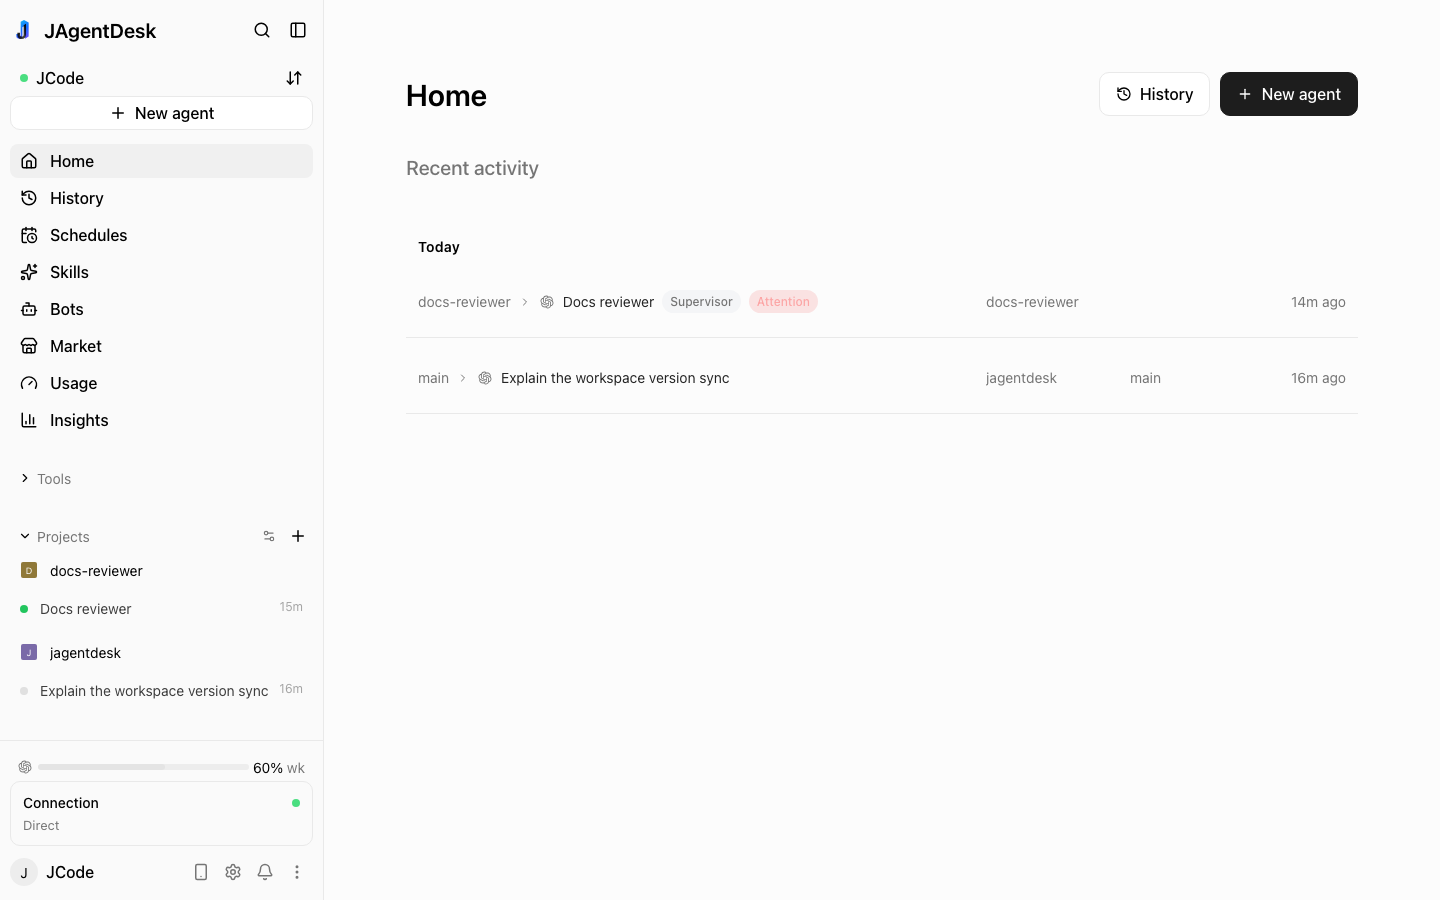
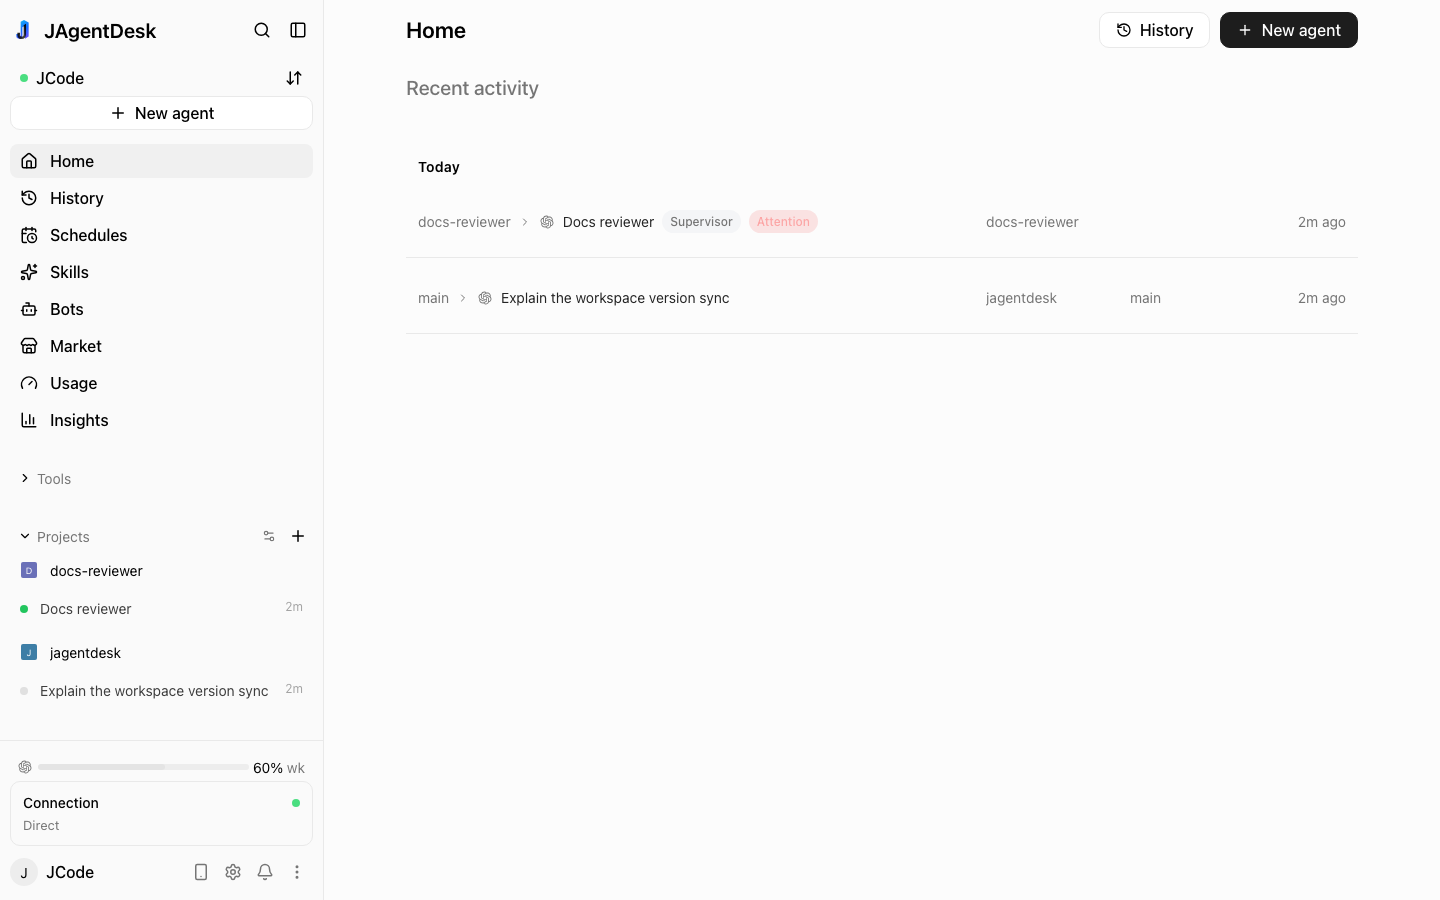
release: v0.10.0 — UI polish and refreshed screenshots
Release notes gain the v0.10.0 UI polish (page header row, chat header,
composer toolbar, touch-only shortcut hint, Bots chat bubbles and composer,
pairing card, muted placeholders), the compact workspace header and the web
terminal font fix. The 11 README screenshots are re-shot from the merged UI
with the Gumloop light theme and real Codex replies.

diff --git a/docs/releases/v0.10.0.md b/docs/releases/v0.10.0.md
@@ -202,6 +202,10 @@ The app's native build number for this release is **10000** (iOS build number an
   turns.
 - Chat: the composer is ready again right after Send; unsent drafts survive closing an agent tab; pasted
   prompts keep their linked resources; email addresses stay intact when you press Enter.
+- Web on phones and tablets: the composer no longer shows the "⌘L to focus" hint when there is no
+  keyboard to press it with.
+- Web: input placeholders that set no colour of their own are drawn in the muted text colour instead of
+  the full text colour.
 - Chat: copying a selection keeps list numbers, image alt text and only the highlighted text; bare URLs
   keep their trailing characters; inline code scales with headings; HTML-looking text stays verbatim.
 - Chat: question cards keep choices open until you move on, text in them is selectable, failed answers
@@ -243,7 +247,8 @@ The app's native build number for this release is **10000** (iOS build number an
   replacement work; an archived agent stays archived when a send to it fails.
 - Terminal: keystrokes typed while a terminal restores are kept; the version reply is no longer typed
   into the shell; macOS Command/Option editing shortcuts work; CJK and emoji widths match across devices;
-  Korean text copies without extra spaces; web finger scrolling is handled once.
+  Korean text copies without extra spaces; web finger scrolling is handled once; in the browser and the
+  desktop app the terminal uses its monospace font instead of the interface font, so columns line up.
 - Desktop: the window reloads when its renderer exits; the app keeps running when launcher pipes close;
   hidden Linux windows open when rendering stalls; no process launch every second when no local daemon
   runs; the Linux window icon shows.
@@ -277,7 +282,13 @@ The app's native build number for this release is **10000** (iOS build number an
   back arrow.
 - Collapse or show the sidebar with ⌘\ / Ctrl+\; the choice is remembered.
 - Home lists recent activity across agents and bots.
-- Composer: gradient frame, shared toolbar dock, fullscreen editing, model / effort / permission pills.
+- Page headers: the title, a one-line description and the page actions share one row at the top of
+  Home, History, Schedules, Skills, Bots, Market, Insights, Settings and every tool page; page tabs sit
+  just under the title.
+- Chat header: the agent's title sits left-aligned next to the sidebar toggle; file, terminal and diff
+  tabs share the same header.
+- Composer: gradient frame, shared toolbar dock on the bottom edge of the box, fullscreen editing,
+  model / effort / permission pills.
 - Composer: skills and commands from the slash menu, with loading and error states; recognized commands
   in replies can be inserted into the composer.
 - Composer: long-press Send to queue or send now; ↑/↓ recalls sent messages; choose the send shortcut;
@@ -308,11 +319,20 @@ The app's native build number for this release is **10000** (iOS build number an
 - Translations load when their language is selected; PR panel, checks and "Worked for" are translated;
   French corrections.
 - First-run setup for new users.
+- Bots: chat bubbles show your message without the `[chat]` source prefix; bot chat and room chat use
+  the same composer as agent chat (text only).
+- Pairing: the six-digit code screen is a centered card with the Codes match and Cancel buttons under
+  the code.
+- Input placeholders use the muted text colour everywhere, including Search fields and the composer.
 
 ### Mobile
 
 - No tab bar: the sidebar opens as a drawer with the same destinations.
-- Compact headers float over the chat; panes, files and subagents open on a shared sheet stack.
+- Compact headers float over the chat, with the title left-aligned after the menu button; panes, files
+  and subagents open on a shared sheet stack.
+- In a workspace the compact header names the workspace (project · branch) instead of repeating the
+  agent title, and holds the workspace actions menu (⋯) next to the inspector button.
+- The composer shows the "⌘L to focus" hint only when a hardware keyboard is connected.
 - Settings are grouped tiles; drawer context is kept through Settings visits.
 - Compact Scripts pages and quick tab creation; full-width creation fields.
 - Fullscreen composer on phones and tablets.
